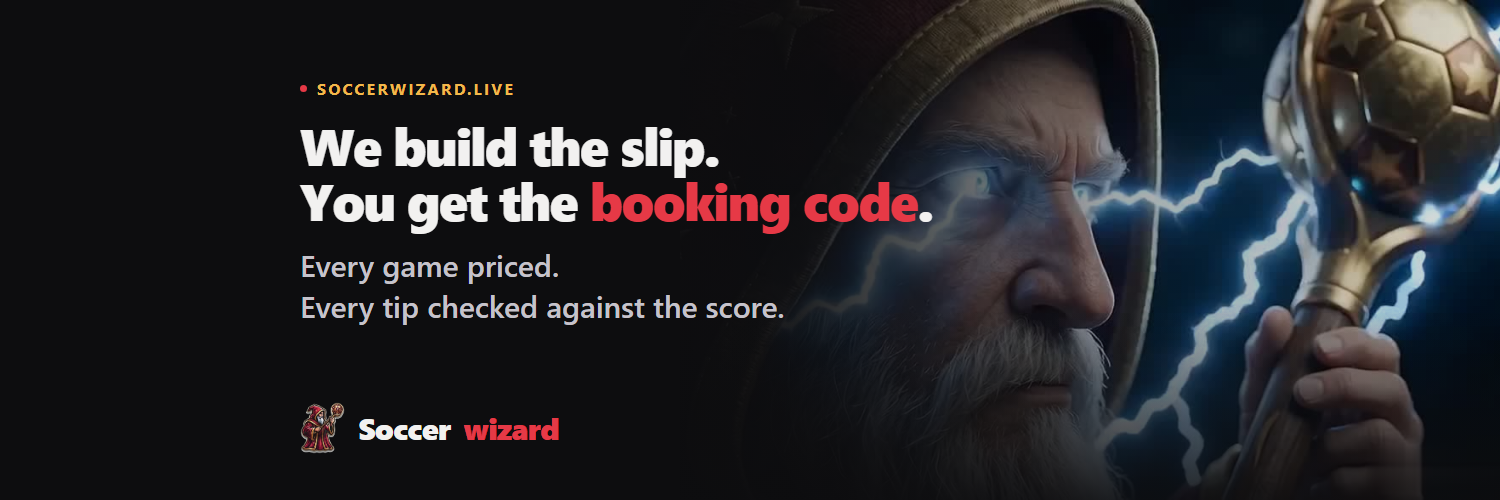
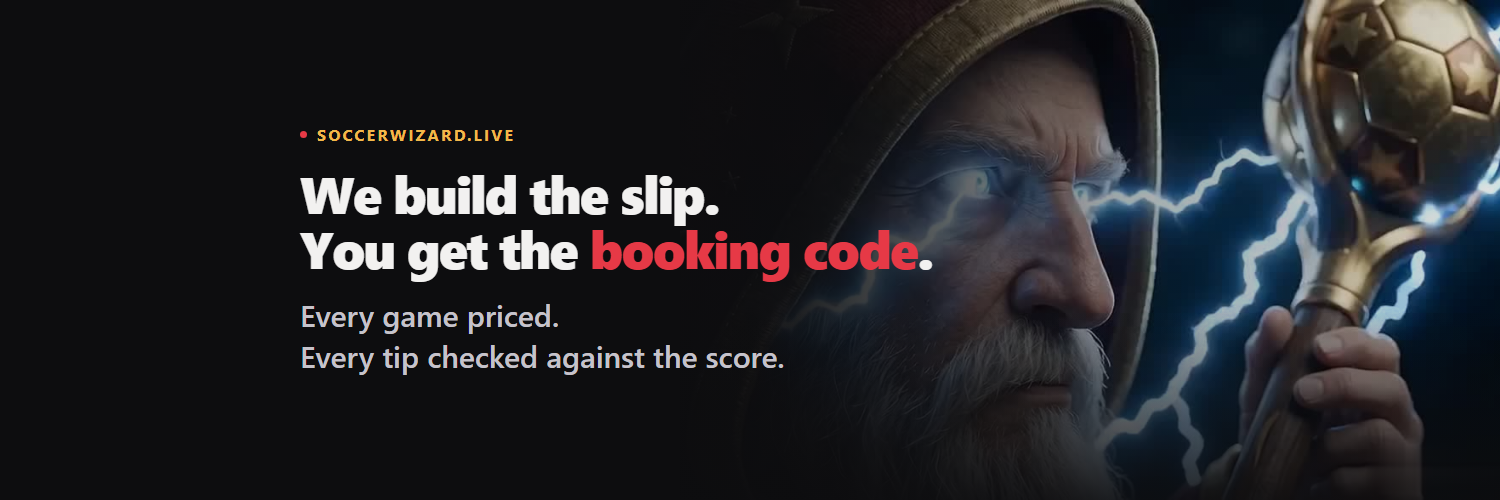
Take the wordmark off the X header
X's avatar sits on top of the banner's lower left, and the circle covers about
26% of the banner's width - not the 15% the layout assumed. The wordmark was
underneath it.

Removed rather than moved: the profile name prints in large type directly under
the banner, so the wordmark was saying the same thing twice. The freed space
goes back to the headline, which now sits centred with the padding it was
originally drawn with.

Re-rendered at 1500x500 with headless Chrome at the target --window-size.

Claude-Session: https://claude.ai/code/session_01SvZTiVDJxDNNrqWHNgMYaV

diff --git a/assets/banners/x-header/wizard-portrait.html b/assets/banners/x-header/wizard-portrait.html
@@ -27,8 +27,7 @@
   .fade-y{position:absolute;left:0;right:0;bottom:0;height:190px;
     background:linear-gradient(180deg,rgba(13,13,15,0),rgba(13,13,15,.86))}
   .in{position:absolute;left:300px;top:0;bottom:0;width:820px;
-    display:flex;flex-direction:column;justify-content:center;gap:18px;
-    padding-bottom:96px}
+    display:flex;flex-direction:column;justify-content:center;gap:20px}
   .eyebrow{display:flex;align-items:center;gap:10px;font-size:16px;font-weight:700;
     letter-spacing:.14em;text-transform:uppercase;color:#F2B84B}
   .eyebrow i{width:7px;height:7px;border-radius:50%;background:#E63946;font-style:normal}
@@ -58,9 +57,10 @@
       <h1>We build the slip.<br>You get the <em>booking code</em>.</h1>
       <p class="sub">Every game priced.<br>Every tip checked against the score.</p>
     </div>
-    <div class="foot">
-      <div class="mark"><img src="../../../public/wiz-logo.png" alt="">Soccer<span>wizard</span></div>
-    </div>
+    <!-- The wordmark lived here and X's avatar sat on top of it: the circle
+         covers about 26% of the banner's width, not the 15% I had assumed.
+         Removed rather than moved - the profile name prints in large type
+         directly under the banner, so it was saying the same thing twice. -->
   </div>
 </body>
 </html>
